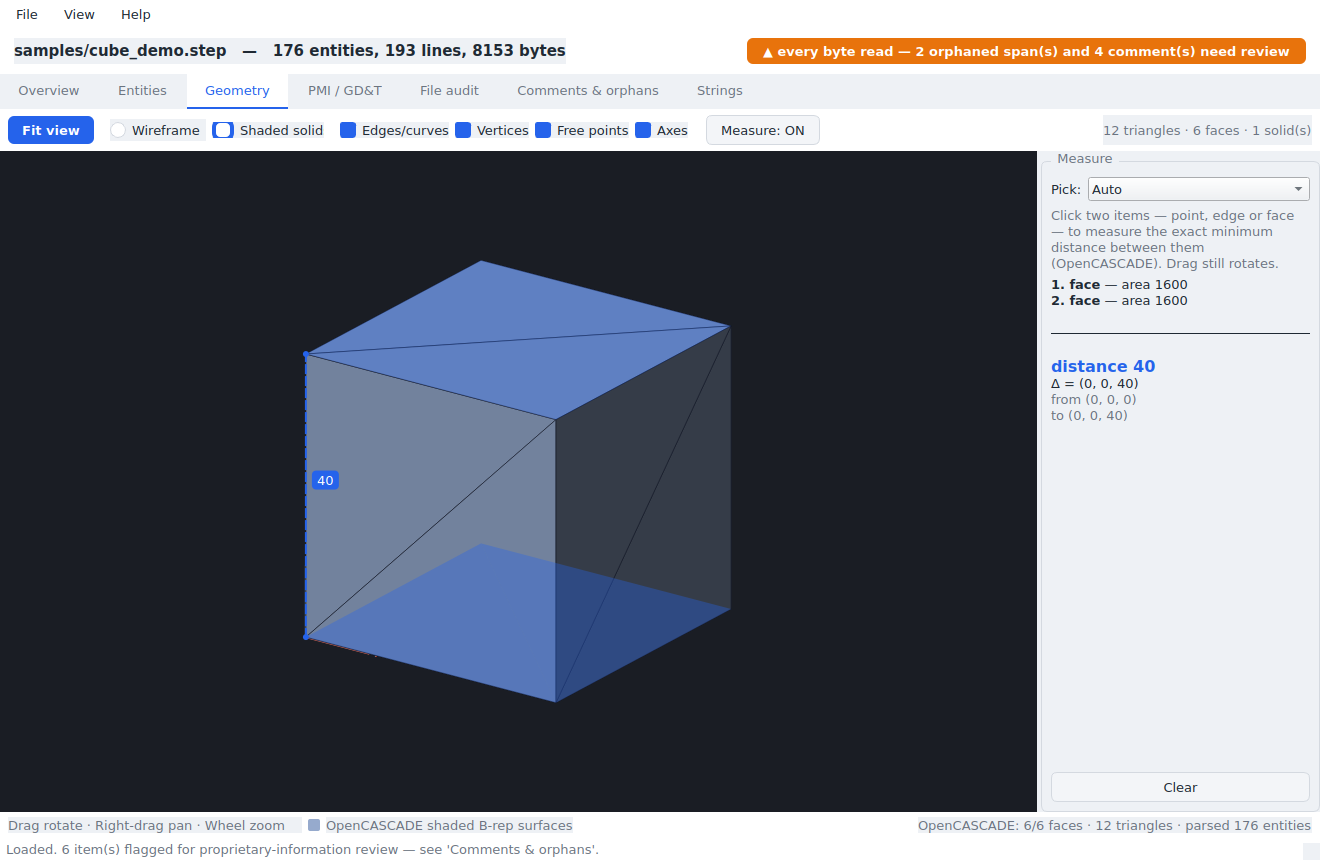
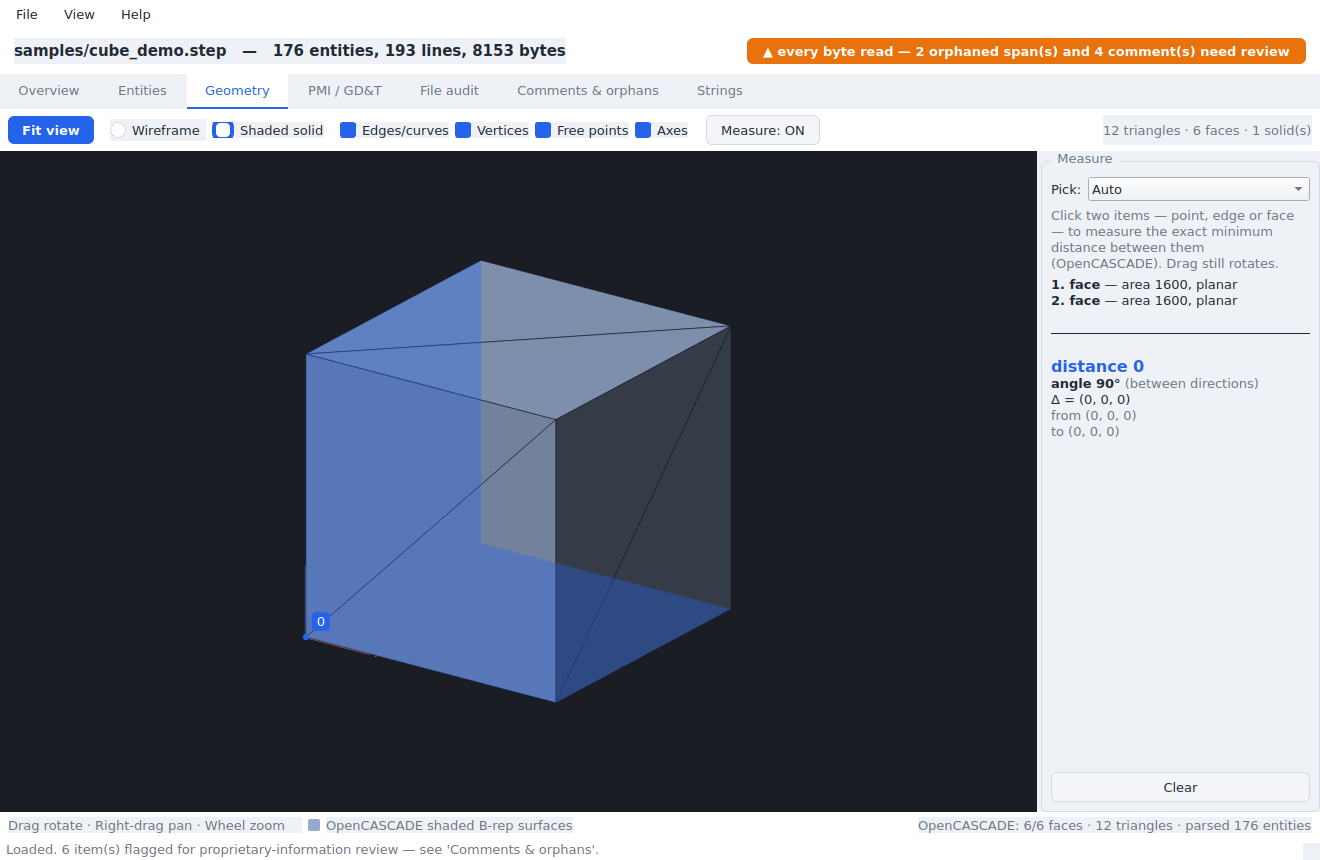
Add OCC angle/radius measurement and exact mass properties
Building on the OpenCASCADE backend (now a committed dependency):

Measurement:
- Circular edges and cylindrical faces report radius and diameter in
  their pick info (from the curve/surface adaptor).
- measure() also returns the angle between two selections when both have a
  direction (straight edge, planar-face normal, or cylinder axis) — e.g.
  adjacent cube faces read distance 0, angle 90°. Shown in the measure
  panel.

Mass & size properties:
- load_and_mesh computes the shape's exact bounding box, surface area and,
  for closed solids, volume and centre of mass (BRepGProp / Bnd_Box) and
  attaches them to the result.
- Surfaced in the Overview tab's OpenCASCADE section and in the
  --report --shaded output.

Reproducible setup:
- environment.yml creates a conda env with pythonocc-core + PySide6 +
  numpy + steptools so the full-featured app installs in one command.

Tests: 63 total (+8: properties volume/area/CoM/bbox, angle between faces,
circular-edge radius). Verified with Qt + OpenCASCADE 7.x.

Claude-Session: https://claude.ai/code/session_01UX5YsNqT1uCBnnkKSNJmvz

Changed region(s): [[0.2174, 0.3023, 0.5591, 0.7558], [0.7765, 0.4233, 0.9629, 0.514], [0.9008, 0.3326, 0.9318, 0.3628]]

diff --git a/step-inspector/step_inspector/occ_backend.py b/step-inspector/step_inspector/occ_backend.py
@@ -47,10 +47,15 @@ def _try_import():
         from OCC.Core.BRep import BRep_Tool
         from OCC.Core.TopoDS import topods
         from OCC.Core.BRepExtrema import BRepExtrema_DistShapeShape
-        from OCC.Core.BRepAdaptor import BRepAdaptor_Curve
+        from OCC.Core.BRepAdaptor import (BRepAdaptor_Curve,
+                                          BRepAdaptor_Surface)
         from OCC.Core.GCPnts import GCPnts_QuasiUniformDeflection
         from OCC.Core.GProp import GProp_GProps
         from OCC.Core.BRepGProp import brepgprop
+        from OCC.Core.Bnd import Bnd_Box
+        from OCC.Core.BRepBndLib import brepbndlib
+        from OCC.Core.GeomAbs import (GeomAbs_Line, GeomAbs_Circle,
+                                      GeomAbs_Plane, GeomAbs_Cylinder)
         AVAILABLE = True
         return {
             "STEPControl_Reader": STEPControl_Reader,
@@ -70,9 +75,16 @@ def _try_import():
             "topods": topods,
             "BRepExtrema_DistShapeShape": BRepExtrema_DistShapeShape,
             "BRepAdaptor_Curve": BRepAdaptor_Curve,
+            "BRepAdaptor_Surface": BRepAdaptor_Surface,
             "GCPnts_QuasiUniformDeflection": GCPnts_QuasiUniformDeflection,
             "GProp_GProps": GProp_GProps,
             "brepgprop": brepgprop,
+            "Bnd_Box": Bnd_Box,
+            "brepbndlib": brepbndlib,
+            "GeomAbs_Line": GeomAbs_Line,
+            "GeomAbs_Circle": GeomAbs_Circle,
+            "GeomAbs_Plane": GeomAbs_Plane,
+            "GeomAbs_Cylinder": GeomAbs_Cylinder,
         }
     except Exception as e:        # pragma: no cover - depends on environment
         AVAILABLE = False
@@ -112,7 +124,27 @@ class PickShape:
     index: int                # position within its kind list
     pts: np.ndarray           # (K, 3) world points used for screen picking
     shape: object             # the TopoDS sub-shape (exact distance source)
-    info: str                 # human label (coords / length / area)
+    info: str                 # human label (coords / length / area / radius)
+    direction: tuple = None   # unit dir (line edge / plane normal / axis)
+    radius: float = None      # circular edge or cylindrical face radius
+
+
+@dataclass
+class ShapeProperties:
+    """Exact mass/size properties of the whole B-rep (OpenCASCADE)."""
+    ok: bool = False
+    is_solid: bool = False
+    volume: float = 0.0
+    area: float = 0.0
+    com: tuple = (0.0, 0.0, 0.0)          # centre of mass
+    bbox_min: tuple = (0.0, 0.0, 0.0)
+    bbox_max: tuple = (0.0, 0.0, 0.0)
+
+    @property
+    def bbox_size(self) -> tuple:
+        return (self.bbox_max[0] - self.bbox_min[0],
+                self.bbox_max[1] - self.bbox_min[1],
+                self.bbox_max[2] - self.bbox_min[2])
 
 
 @dataclass
@@ -137,6 +169,7 @@ class MeasureResult:
     distance: float = 0.0
     p1: tuple = (0.0, 0.0, 0.0)     # closest point on shape A
     p2: tuple = (0.0, 0.0, 0.0)     # closest point on shape B
+    angle: float = None            # degrees, when both picks are directional
     error: str = ""
 
     @property
@@ -172,6 +205,7 @@ class OccResult:
     mesh: ShadedMesh = field(default_factory=ShadedMesh)
     acc: OccAccounting = field(default_factory=OccAccounting)
     pick: PickModel = field(default_factory=PickModel)
+    props: ShapeProperties = field(default_factory=ShapeProperties)
 
 
 def available() -> bool:
@@ -295,13 +329,39 @@ def load_and_mesh(path: str, lin_deflection: float = 0.0,
     acc.nodes = len(mesh.vertices)
 
     pick = _build_pick(shape, face_shapes, m)
+    props = _properties(shape, m)
 
     if mesh.empty:
         return OccResult(ok=False,
                          error="OpenCASCADE read the file but produced no "
                                "triangulated surfaces (no solid/shell B-rep "
-                               "to mesh).", mesh=mesh, acc=acc)
-    return OccResult(ok=True, mesh=mesh, acc=acc, pick=pick)
+                               "to mesh).", mesh=mesh, acc=acc, props=props)
+    return OccResult(ok=True, mesh=mesh, acc=acc, pick=pick, props=props)
+
+
+def _properties(shape, m) -> ShapeProperties:
+    """Exact volume / area / centre-of-mass / bounding box of the shape."""
+    p = ShapeProperties()
+    try:
+        gs = m["GProp_GProps"]()
+        m["brepgprop"].SurfaceProperties(shape, gs)
+        p.area = float(gs.Mass())
+        n_solids = _count(shape, m["TopAbs_SOLID"], m["TopExp_Explorer"])
+        p.is_solid = n_solids > 0
+        gv = m["GProp_GProps"]()
+        m["brepgprop"].VolumeProperties(shape, gv)
+        p.volume = float(gv.Mass())
+        c = gv.CentreOfMass() if p.is_solid else gs.CentreOfMass()
+        p.com = (c.X(), c.Y(), c.Z())
+        box = m["Bnd_Box"]()
+        m["brepbndlib"].Add(shape, box)
+        x0, y0, z0, x1, y1, z1 = box.Get()
+        p.bbox_min = (x0, y0, z0)
+        p.bbox_max = (x1, y1, z1)
+        p.ok = True
+    except Exception:
+        p.ok = False
+    return p
 
 
 # ---------------------------------------------------------------------------
@@ -336,7 +396,9 @@ def _build_pick(shape, face_shapes, m) -> PickModel:
             info = f"area {g.Mass():.4g}"
         except Exception:
             info = "face"
-        pm.faces.append(PickShape("face", i, np.empty((0, 3)), face, info))
+        direction, radius, extra = _surface_dir_radius(face, m)
+        pm.faces.append(PickShape("face", i, np.empty((0, 3)), face,
+                                  info + extra, direction, radius))
 
     # unique vertices
     vmap = IndexedMap()
@@ -363,11 +425,52 @@ def _build_pick(shape, face_shapes, m) -> PickModel:
             try:
                 g = GProp()
                 brepgprop.LinearProperties(edge, g)
-                info = f"length {g.Mass():.4g}"
+                length = g.Mass()
             except Exception:
-                info = "edge"
-            pm.edges.append(PickShape("edge", len(pm.edges), pts, edge, info))
+                length = 0.0
+            direction, radius, info = _curve_dir_radius(edge, length, m)
+            pm.edges.append(PickShape("edge", len(pm.edges), pts, edge, info,
+                                      direction, radius))
     return pm
+
+
+def _curve_dir_radius(edge, length, m):
+    """Return (direction, radius, info) for an edge from its curve type."""
+    try:
+        ad = m["BRepAdaptor_Curve"](edge)
+        t = ad.GetType()
+        if t == m["GeomAbs_Line"]:
+            d = ad.Line().Direction()
+            return ((d.X(), d.Y(), d.Z()), None,
+                    f"line, length {length:.4g}")
+        if t == m["GeomAbs_Circle"]:
+            circ = ad.Circle()
+            r = circ.Radius()
+            ax = circ.Axis().Direction()
+            return ((ax.X(), ax.Y(), ax.Z()), r,
+                    f"circle r={r:.4g} (⌀{2 * r:.4g}), len {length:.4g}")
+    except Exception:
+        pass
+    return (None, None, f"length {length:.4g}")
+
+
+def _surface_dir_radius(face, m):
+    """Return (direction, radius, extra_info) for a face from its surface."""
+    try:
+        ad = m["BRepAdaptor_Surface"](face)
+        t = ad.GetType()
+        if t == m["GeomAbs_Plane"]:
+            n = ad.Plane().Axis().Direction()
+            return ((n.X(), n.Y(), n.Z()), None, ", planar")
+        if t == m["GeomAbs_Cylinder"]:
+            cyl = ad.Cylinder()
+            r = cyl.Radius()
+            ax = cyl.Axis().Direction()
+            return ((ax.X(), ax.Y(), ax.Z()), r,
+                    f", cylinder r={r:.4g} (⌀{2 * r:.4g})")
+    except Exception:
+        pass
+    return (None, None, "")
 
 
 def _discretize_edge(edge, m):
@@ -400,9 +503,24 @@ def measure(pa: PickShape, pb: PickShape) -> MeasureResult:
         return MeasureResult(
             True, kind_a=pa.kind, kind_b=pb.kind, info_a=pa.info,
             info_b=pb.info, distance=float(ext.Value()),
-            p1=(p1.X(), p1.Y(), p1.Z()), p2=(p2.X(), p2.Y(), p2.Z()))
+            p1=(p1.X(), p1.Y(), p1.Z()), p2=(p2.X(), p2.Y(), p2.Z()),
+            angle=_angle_between(pa.direction, pb.direction))
     except Exception as e:
         return MeasureResult(False, error=str(e))
+
+
+def _angle_between(da, db):
+    """Angle in degrees (0-90) between two directions, or None."""
+    if not da or not db:
+        return None
+    a = np.array(da, dtype=float)
+    b = np.array(db, dtype=float)
+    na = np.linalg.norm(a)
+    nb = np.linalg.norm(b)
+    if na == 0 or nb == 0:
+        return None
+    cos = abs(float(np.dot(a, b)) / (na * nb))
+    return float(np.degrees(np.arccos(min(1.0, max(0.0, cos)))))
 
 
 def _count(shape, typ, TopExp_Explorer) -> int:

diff --git a/step-inspector/tests/test_occ.py b/step-inspector/tests/test_occ.py
@@ -108,6 +108,49 @@ class TestMeasurement(unittest.TestCase):
         self.assertEqual(r.kind_b, "face")
         self.assertEqual(len(r.delta), 3)
 
+    def test_angle_between_faces(self):
+        import numpy as np
+
+        def face_normal(n):
+            n = np.array(n) / np.linalg.norm(n)
+            for f in self.pm.faces:
+                if f.direction and np.allclose(np.abs(f.direction), np.abs(n),
+                                               atol=1e-3):
+                    return f
+            return None
+        adj = occ.measure(face_normal([0, 0, 1]), face_normal([1, 0, 0]))
+        self.assertAlmostEqual(adj.angle, 90.0, places=3)
+        par = occ.measure(self.pm.faces[0], self.pm.faces[1])
+        self.assertAlmostEqual(par.angle, 0.0, places=3)
+
+    def test_circular_edge_radius(self):
+        circ = [e for e in self.pm.edges if e.radius]
+        self.assertTrue(circ)                       # datum circle D1
+        self.assertAlmostEqual(circ[0].radius, 12.5, places=3)
+        self.assertIn("⌀", circ[0].info)
+
+
+@unittest.skipUnless(HAVE_OCC, "pythonocc-core not installed")
+class TestProperties(unittest.TestCase):
+    @classmethod
+    def setUpClass(cls):
+        cls.p = occ.load_and_mesh(SAMPLE).props
+
+    def test_volume_and_area(self):
+        self.assertTrue(self.p.ok)
+        self.assertTrue(self.p.is_solid)
+        self.assertAlmostEqual(self.p.volume, 64000.0, places=1)   # 40^3
+        self.assertAlmostEqual(self.p.area, 9600.0, places=1)      # 6*40^2
+
+    def test_centre_of_mass(self):
+        for c in self.p.com:
+            self.assertAlmostEqual(c, 20.0, places=3)
+
+    def test_bounding_box(self):
+        # cube is 40; annotation geometry extends it — must be >= 40
+        for d in self.p.bbox_size:
+            self.assertGreaterEqual(d, 40.0)
+
 
 if __name__ == "__main__":
     unittest.main(verbosity=2)

diff --git a/step-inspector/step_inspector/gui/qt_app.py b/step-inspector/step_inspector/gui/qt_app.py
@@ -424,6 +424,19 @@ class OverviewTab(QtWidgets.QWidget):
                 p(f"▲ Its STEP reader parsed {a.entities_parsed} entities vs "
                   f"{len(res.entities)} found by the audit parser — audit is "
                   "authoritative.", "w")
+            pr = r.props
+            if pr.ok:
+                bb = pr.bbox_size
+                p(f"&nbsp;&nbsp;bounding box: {bb[0]:.4g} × {bb[1]:.4g} × "
+                  f"{bb[2]:.4g}")
+                if pr.is_solid:
+                    p(f"&nbsp;&nbsp;volume: {pr.volume:.6g}&nbsp;&nbsp;&nbsp;"
+                      f"surface area: {pr.area:.6g}".replace(" ", "&nbsp;"))
+                else:
+                    p(f"&nbsp;&nbsp;surface area: {pr.area:.6g} (no closed "
+                      "solid)")
+                p(f"&nbsp;&nbsp;centre of mass: ({pr.com[0]:.4g}, "
+                  f"{pr.com[1]:.4g}, {pr.com[2]:.4g})")
             p("&nbsp;&nbsp;Note: byte-level coverage is proven by the audit "
               "parser above; OpenCASCADE only renders surfaces.", "d")
 
@@ -794,6 +807,10 @@ class GeometryTab(QtWidgets.QWidget):
                 rows.append("<hr>")
                 rows.append(f"<b style='font-size:16px;color:{pal.accent}'>"
                             f"distance {r.distance:.6g}</b>")
+                if r.angle is not None:
+                    rows.append(f"<b>angle {r.angle:.4g}°</b> "
+                                f"<span style='color:{pal.text_dim}'>(between "
+                                "directions)</span>")
                 rows.append(f"Δ = ({dx:.4g}, {dy:.4g}, {dz:.4g})")
                 rows.append(f"<span style='color:{pal.text_dim}'>from "
                             f"({r.p1[0]:.4g}, {r.p1[1]:.4g}, {r.p1[2]:.4g})"

diff --git a/step-inspector/step_inspector/report.py b/step-inspector/step_inspector/report.py
@@ -167,6 +167,17 @@ def build_report(res: AuditResult, st: SteptoolsInfo | None = None,
             if a.faces_no_triangulation:
                 w(f"  WARNING: {a.faces_no_triangulation} face(s) not "
                   "tessellated")
+            pr = getattr(occ_result, "props", None)
+            if pr is not None and pr.ok:
+                bb = pr.bbox_size
+                w(f"  bounding box: {bb[0]:.4g} x {bb[1]:.4g} x {bb[2]:.4g}")
+                if pr.is_solid:
+                    w(f"  volume: {pr.volume:.6g}   surface area: "
+                      f"{pr.area:.6g}")
+                else:
+                    w(f"  surface area: {pr.area:.6g} (no closed solid)")
+                w(f"  centre of mass: ({pr.com[0]:.4g}, {pr.com[1]:.4g}, "
+                  f"{pr.com[2]:.4g})")
         w("  (Byte-level coverage is proven by the audit parser above; "
           "OpenCASCADE only renders surfaces.)")
 

diff --git a/step-inspector/README.md b/step-inspector/README.md
@@ -208,6 +208,28 @@ It is entirely optional: without it, the Geometry tab still works in
 wireframe mode and the rest of the app is unaffected (the *Shaded solids*
 toggle is simply disabled with a hint).
 
+For a one-command, fully reproducible setup with OpenCASCADE included, use
+the bundled conda environment file:
+
+```sh
+conda env create -f environment.yml
+conda activate step-inspector
+python -m step_inspector [file.step]
+```
+
+### Mass & size properties
+
+When OpenCASCADE meshes a part it also reports its exact **bounding box**,
+**surface area**, and — for closed solids — **volume** and **centre of
+mass** (via `BRepGProp` / `Bnd_Box`). These appear in the Overview tab's
+OpenCASCADE section and in the `--report --shaded` output, e.g.:
+
+```
+  bounding box: 60.2 x 60.2 x 50.2
+  volume: 64000   surface area: 9600
+  centre of mass: (20, 20, 20)
+```
+
 ### Coverage is still the audit parser's job — OpenCASCADE is accounted for
 
 OpenCASCADE has its own, *more permissive* STEP reader: it will load a file
@@ -238,8 +260,15 @@ between them (computed on the real B-rep with `BRepExtrema_DistShapeShape`,
 not estimated from the triangle mesh). The two picked sub-shapes are
 highlighted, a connector with the distance label is drawn between the closest
 points, and the side panel shows the distance, the ΔX/ΔY/ΔZ vector, both
-closest-point coordinates, and each selection's info (point coordinates, edge
-length, or face area).
+closest-point coordinates, and each selection's info:
+
+* **points** — coordinates
+* **edges** — length; for a circular edge, **radius and diameter**
+* **faces** — area; for a cylindrical face, **radius and diameter**
+
+When both selections have a well-defined direction (a straight edge, or a
+planar face's normal, or a cylinder axis) the **angle** between them is
+reported too — e.g. two adjacent cube faces read distance 0, angle 90°.
 
 | Point-to-point | Face-to-face |
 |---|---|
